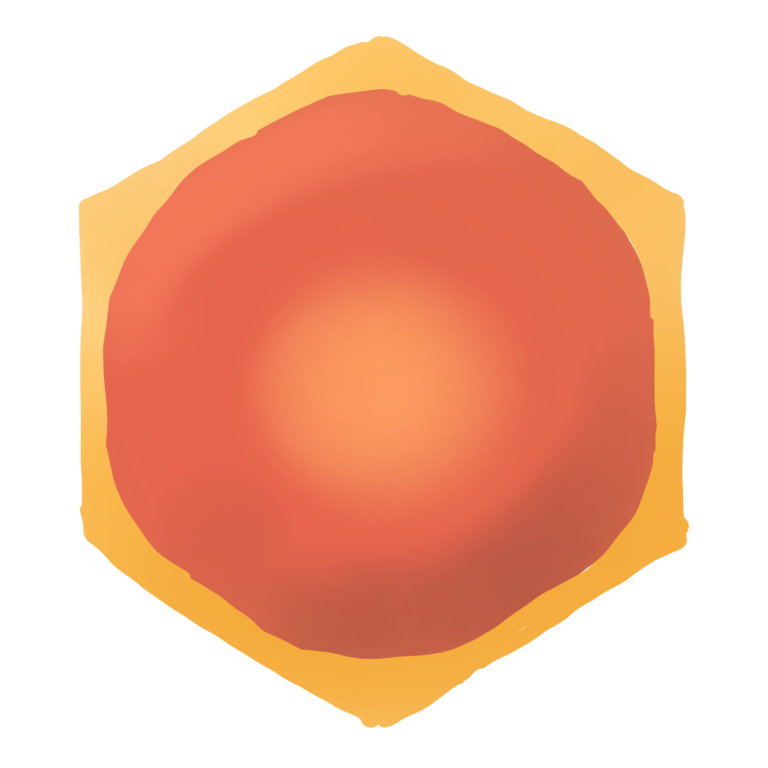
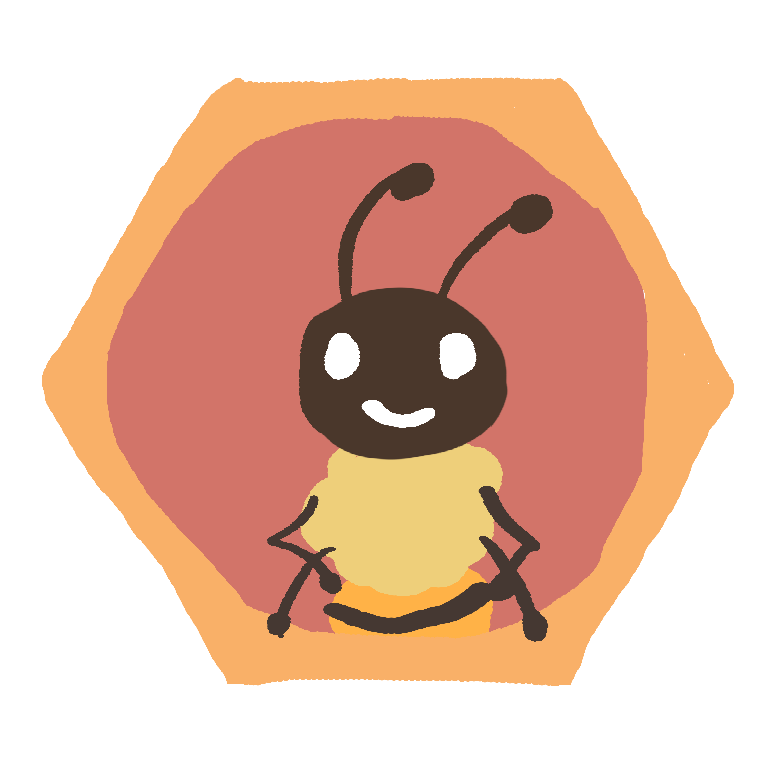
Modify honeycomb.py

diff --git a/src/modules/honeycomb.py b/src/modules/honeycomb.py
@@ -1,6 +1,7 @@
 import itertools
 import math
 import os
+import random
 import sys
 import time
 
@@ -9,10 +10,11 @@ import pygame
 
 
 # 画像ラベル
-HC_BASE = "hc_base.png"
-HC_STRONG = "hc_strong.png"
-HC_NORMAL = "hc_normal.png"
-HC_WEAK = "hc_weak.png"
+HC_IMG_BASE = "hc_base.png"
+HC_IMG_1 = "hc1.png"
+HC_IMG_2 = "hc2.png"
+HC_IMG_3 = "hc3.png"
+HC_IMG_4 = "hc4.png"
 
 HC_INACTIVE_1 = "hc_inactive_1.png"
 HC_INACTIVE_2 = "hc_inactive_2.png"
@@ -20,9 +22,9 @@ HC_INACTIVE_2 = "hc_inactive_2.png"
 hc_imgs = {}
 
 # ハニカムの設定
-HC_SIZE = 50
+HC_SIZE = 65
 
-HC_DIST = 38
+HC_DIST = 50
 HC_DIST_HOR = HC_DIST * math.sqrt(3) / 2
 HC_DIST_VER = HC_DIST
 
@@ -68,20 +70,27 @@ FIELD_1 = [
 ]
 
 # サーフェイスの設定
-COLORKEY = (255, 255, 255)
+COLORKEY = (200, 200, 200)
 
 
 class Honeycomb:
     def __init__(self, pos, label):
         self.pos = pos
         self.label = label
-        self.state = HC_STATE_ACTIVE if self.label == HC_BASE \
+        self.state = HC_STATE_ACTIVE if self.label == HC_IMG_BASE \
                      else HC_STATE_INACTIVE
 
         self.anim_last_time = 0.0
         self.anim_duration = 1.0
         self.anim_count = 1
         self.anim_label = self.label
+
+    def activate(self, label):
+        self.state = HC_STATE_ACTIVE
+        self.label = label
+
+    def deactivate(self):
+        self.state = HC_STATE_INACTIVE
 
     def render(self, surface):
         """ハニカムを描画する."""
@@ -103,48 +112,19 @@ def load_hc_imgs(img_dir):
     この関数はアプリの初期化段階で呼び出す必要がある.
     """
     labels = [
-        HC_BASE, HC_STRONG, HC_NORMAL, HC_WEAK, HC_INACTIVE_1, HC_INACTIVE_2
+        HC_IMG_BASE,
+        HC_IMG_1,
+        HC_IMG_2,
+        HC_IMG_3,
+        HC_IMG_4,
+        HC_INACTIVE_1,
+        HC_INACTIVE_2
     ]
     for label in labels:
         img = pygame.image.load(os.path.join(img_dir, label))
         img.convert()
         img = pygame.transform.scale(img, (HC_SIZE, HC_SIZE))
-        img = pygame.transform.rotate(img, 90)
         hc_imgs[label] = img
-
-
-def make_hc_pos_list(center, d, n):
-    """ハニカムの座標のリストを生成する."""
-    hor = math.sqrt(3) / 2
-    offsets = np.array([
-        ( hor*d,  d/2),
-        ( hor*d, -d/2),
-        (     0, -d  ),
-        (-hor*d, -d/2),
-        (-hor*d,  d/2),
-        (     0,  d  ),
-    ])
-    steps = np.array([
-        (     0, -d  ),
-        (-hor*d, -d/2),
-        (-hor*d,  d/2),
-        (     0,  d  ),
-        ( hor*d,  d/2),
-        ( hor*d, -d/2),
-    ])
-    i = 0
-    count = 0
-    layer = 1
-    while i <= n:
-        i += 1
-        count += 1
-        if count > 6 * layer:
-            count = 1
-            layer += 1
-        l = (count - 1) // layer
-        m = (count - 1) % layer
-        pos = center + layer*offsets[l] + m*steps[l]
-        hc_pos_list.append(pos)
 
 
 def calc_hc_pos(field_f, target, screen_center):
@@ -169,14 +149,27 @@ def make_field_info(field, screen_center):
     num_of_hcs = max([i for i in field_f if isinstance(i, int)])
     field_info["num_of_hcs"] = num_of_hcs
     pos_list = [calc_hc_pos(field_f, BASE, screen_center)]
-    hcs = [Honeycomb(pos_list[0], HC_BASE)]
+    hcs = [Honeycomb(pos_list[0], HC_IMG_BASE)]
     for i in range(1, num_of_hcs + 1):
         pos = calc_hc_pos(field_f, i, screen_center)
         pos_list.append(pos)
-        hcs.append(Honeycomb(pos, HC_WEAK))
+        hcs.append(Honeycomb(pos, HC_IMG_1))
     field_info["pos_list"] = pos_list
     field_info["hcs"] = hcs
     return field_info
+
+
+def activate_honeycomb(field_info, n):
+    """ハニカムを 1 つ指定してアクティブ化する."""
+    hc = field_info["hcs"][n]
+    labels = [HC_IMG_1, HC_IMG_2, HC_IMG_3, HC_IMG_4]
+    hc.activate(random.choice(labels))
+
+
+def deactivate_honeycomb(field_info, n):
+    """ハニカムを 1 つ指定して非アクティブ化する."""
+    hc = field_info["hcs"][n]
+    hc.deactivate()
 
 
 def make_hc_surface(screen_size, field_info):

diff --git a/src/app3.py b/src/app3.py
@@ -17,15 +17,11 @@ from modules.facial import (
     make_gauge_surface,
 )
 from modules.honeycomb import (
-    HC_BASE,
-    HC_STRONG,
-    HC_NORMAL,
-    HC_WEAK,
-    hc_imgs,
     FIELD_1,
     load_hc_imgs,
-    make_hc_pos_list,
     make_field_info,
+    activate_honeycomb,
+    deactivate_honeycomb,
     make_hc_surface,
 )
 
@@ -38,8 +34,8 @@ IMG_DIR = os.path.join(ASSETS_DIR, "img")
 MAC_ADDRESS = "98:D3:91:FE:44:E9"
 
 # 画面の設定
-SCREEN_W = 640
-SCREEN_H = 480
+SCREEN_W = 720
+SCREEN_H = 600
 SCREEN_SIZE = np.array([SCREEN_W, SCREEN_H])
 
 SCREEN_CENTER = np.array([SCREEN_W, SCREEN_H]) / 2
@@ -60,6 +56,15 @@ def sample_t_func(device, accs, emgs, emgs_ema):
         sample_data(device, accs, emgs, emgs_ema)
 
 
+def render_t_func(surfaces, field_info, emgs_ema):
+    """描画用スレッドの関数."""
+    while not stop_event.is_set():
+        hc_surface = make_hc_surface(SCREEN_SIZE, field_info)
+        gauge_surface = make_gauge_surface(SCREEN_SIZE, emgs_ema[-1])
+        surfaces["hc"] = hc_surface
+        surfaces["gauge"] = gauge_surface
+
+
 def main_t_func(screen, accs, emgs, emgs_ema):
     smiling = False
     num_of_honeycombs = 0
@@ -71,20 +76,27 @@ def main_t_func(screen, accs, emgs, emgs_ema):
     while len(emgs_ema) == 0:
         time.sleep(0.1)
 
+    # 描画用スレッドの準備
+    surfaces = {
+        "hc": make_hc_surface(SCREEN_SIZE, field_info),
+        "gauge": make_gauge_surface(SCREEN_SIZE, emgs_ema[-1]),
+    }
+    render_t = threading.Thread(
+        target=render_t_func, args=[surfaces, field_info, emgs_ema])
+    render_t.start()
+
     start_time = 0.0
     update_time = 0.5
     while not stop_event.is_set():
         # 描画
         screen.fill(color=(200, 200, 200))
-        hc_surface = make_hc_surface(SCREEN_SIZE, field_info)
-        screen.blit(hc_surface, (0, 0))
-
-        gauge_surface = make_gauge_surface(SCREEN_SIZE, emgs_ema[-1])
-        screen.blit(gauge_surface, (0, 0))
+        screen.blit(surfaces["hc"], (0, 0))
+        screen.blit(surfaces["gauge"], (0, 0))
 
         pygame.display.update()
 
         # 笑顔の判定
+        print(emgs_ema[-1])
         if emgs_ema[-1] > SMILE_THRES:
             if not smiling:
                 smiling = True
@@ -98,14 +110,18 @@ def main_t_func(screen, accs, emgs, emgs_ema):
             if current_time - start_time > update_time:
                 if num_of_honeycombs <= MAX_HC:
                     num_of_honeycombs += 1
+                    activate_honeycomb(field_info, num_of_honeycombs)
                     start_time = current_time
         else:
             if current_time - start_time > update_time:
                 if num_of_honeycombs > 0:
+                    deactivate_honeycomb(field_info, num_of_honeycombs)
                     num_of_honeycombs -= 1
                     start_time = current_time
 
         time.sleep(0.01)
+
+    render_t.join()
 
 
 if __name__ == "__main__":
